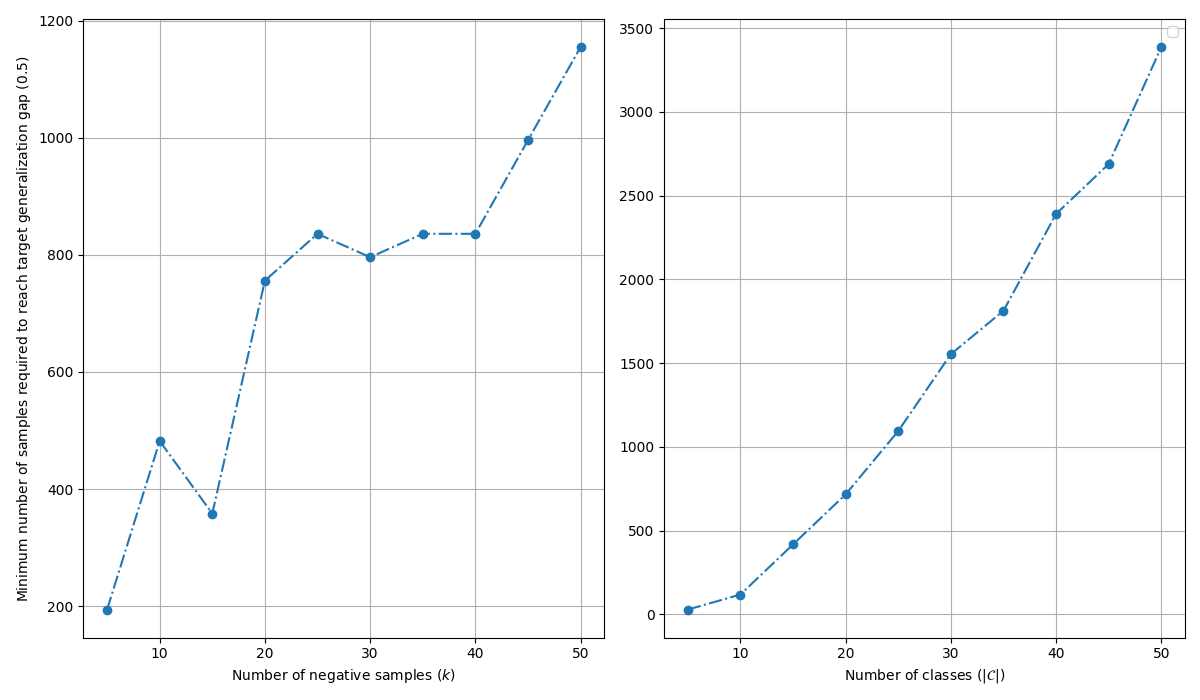
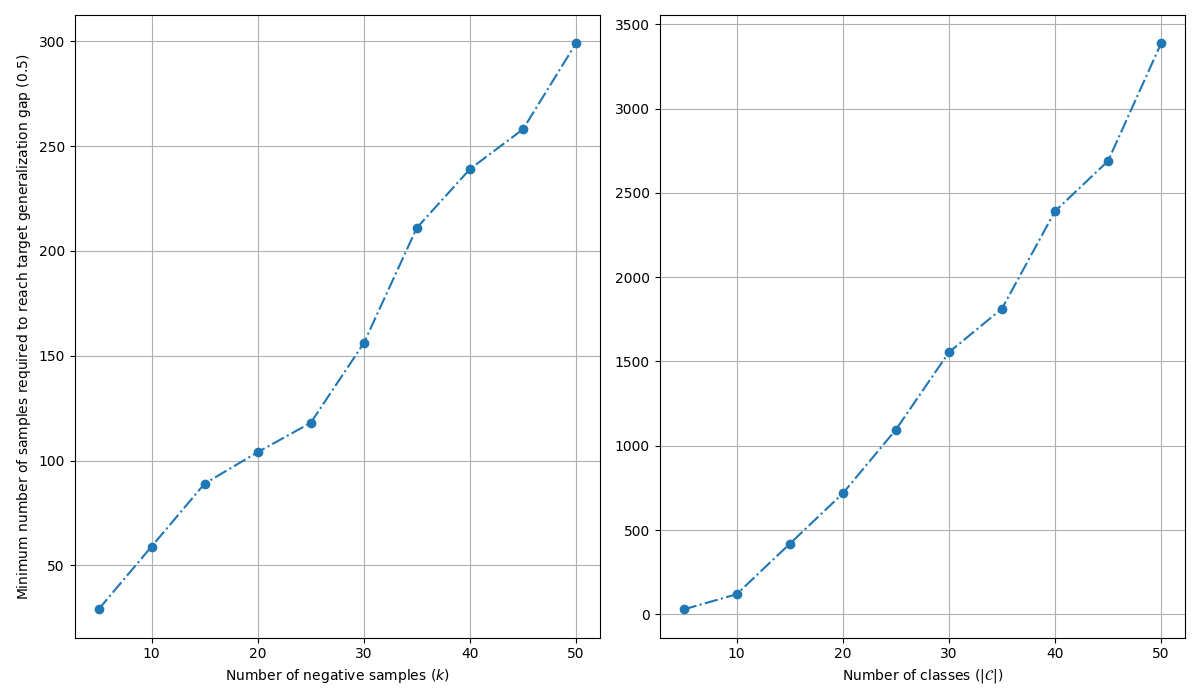
Checkpoint

diff --git a/train_gaussian.py b/train_gaussian.py
@@ -155,7 +155,7 @@ def train(args, train_dataloader, test_dataloader):
 
 if __name__ == '__main__':
     parser = ArgumentParser()
-    parser.add_argument('--epochs', type=int, required=False, default=1000, help='Number of training iterations')
+    parser.add_argument('--epochs', type=int, required=False, default=300, help='Number of training iterations')
     parser.add_argument('--N', type=int, required=False, default=500, help='Number of labeled data points')
     parser.add_argument('--d_dim', type=int, required=False, default=64, help='Output dimensionality')
     parser.add_argument('--k', type=int, required=False, default=3, help='Number of negative samples')

diff --git a/plot_result.py b/plot_result.py
@@ -35,7 +35,6 @@ def plot_result1(output, figsize=(12, 7)):
     axes[1].grid()
 
     # Plot 
-    plt.legend()
     plt.tight_layout()
     plt.savefig(output)
     print(f'Output saved to {output}.')
